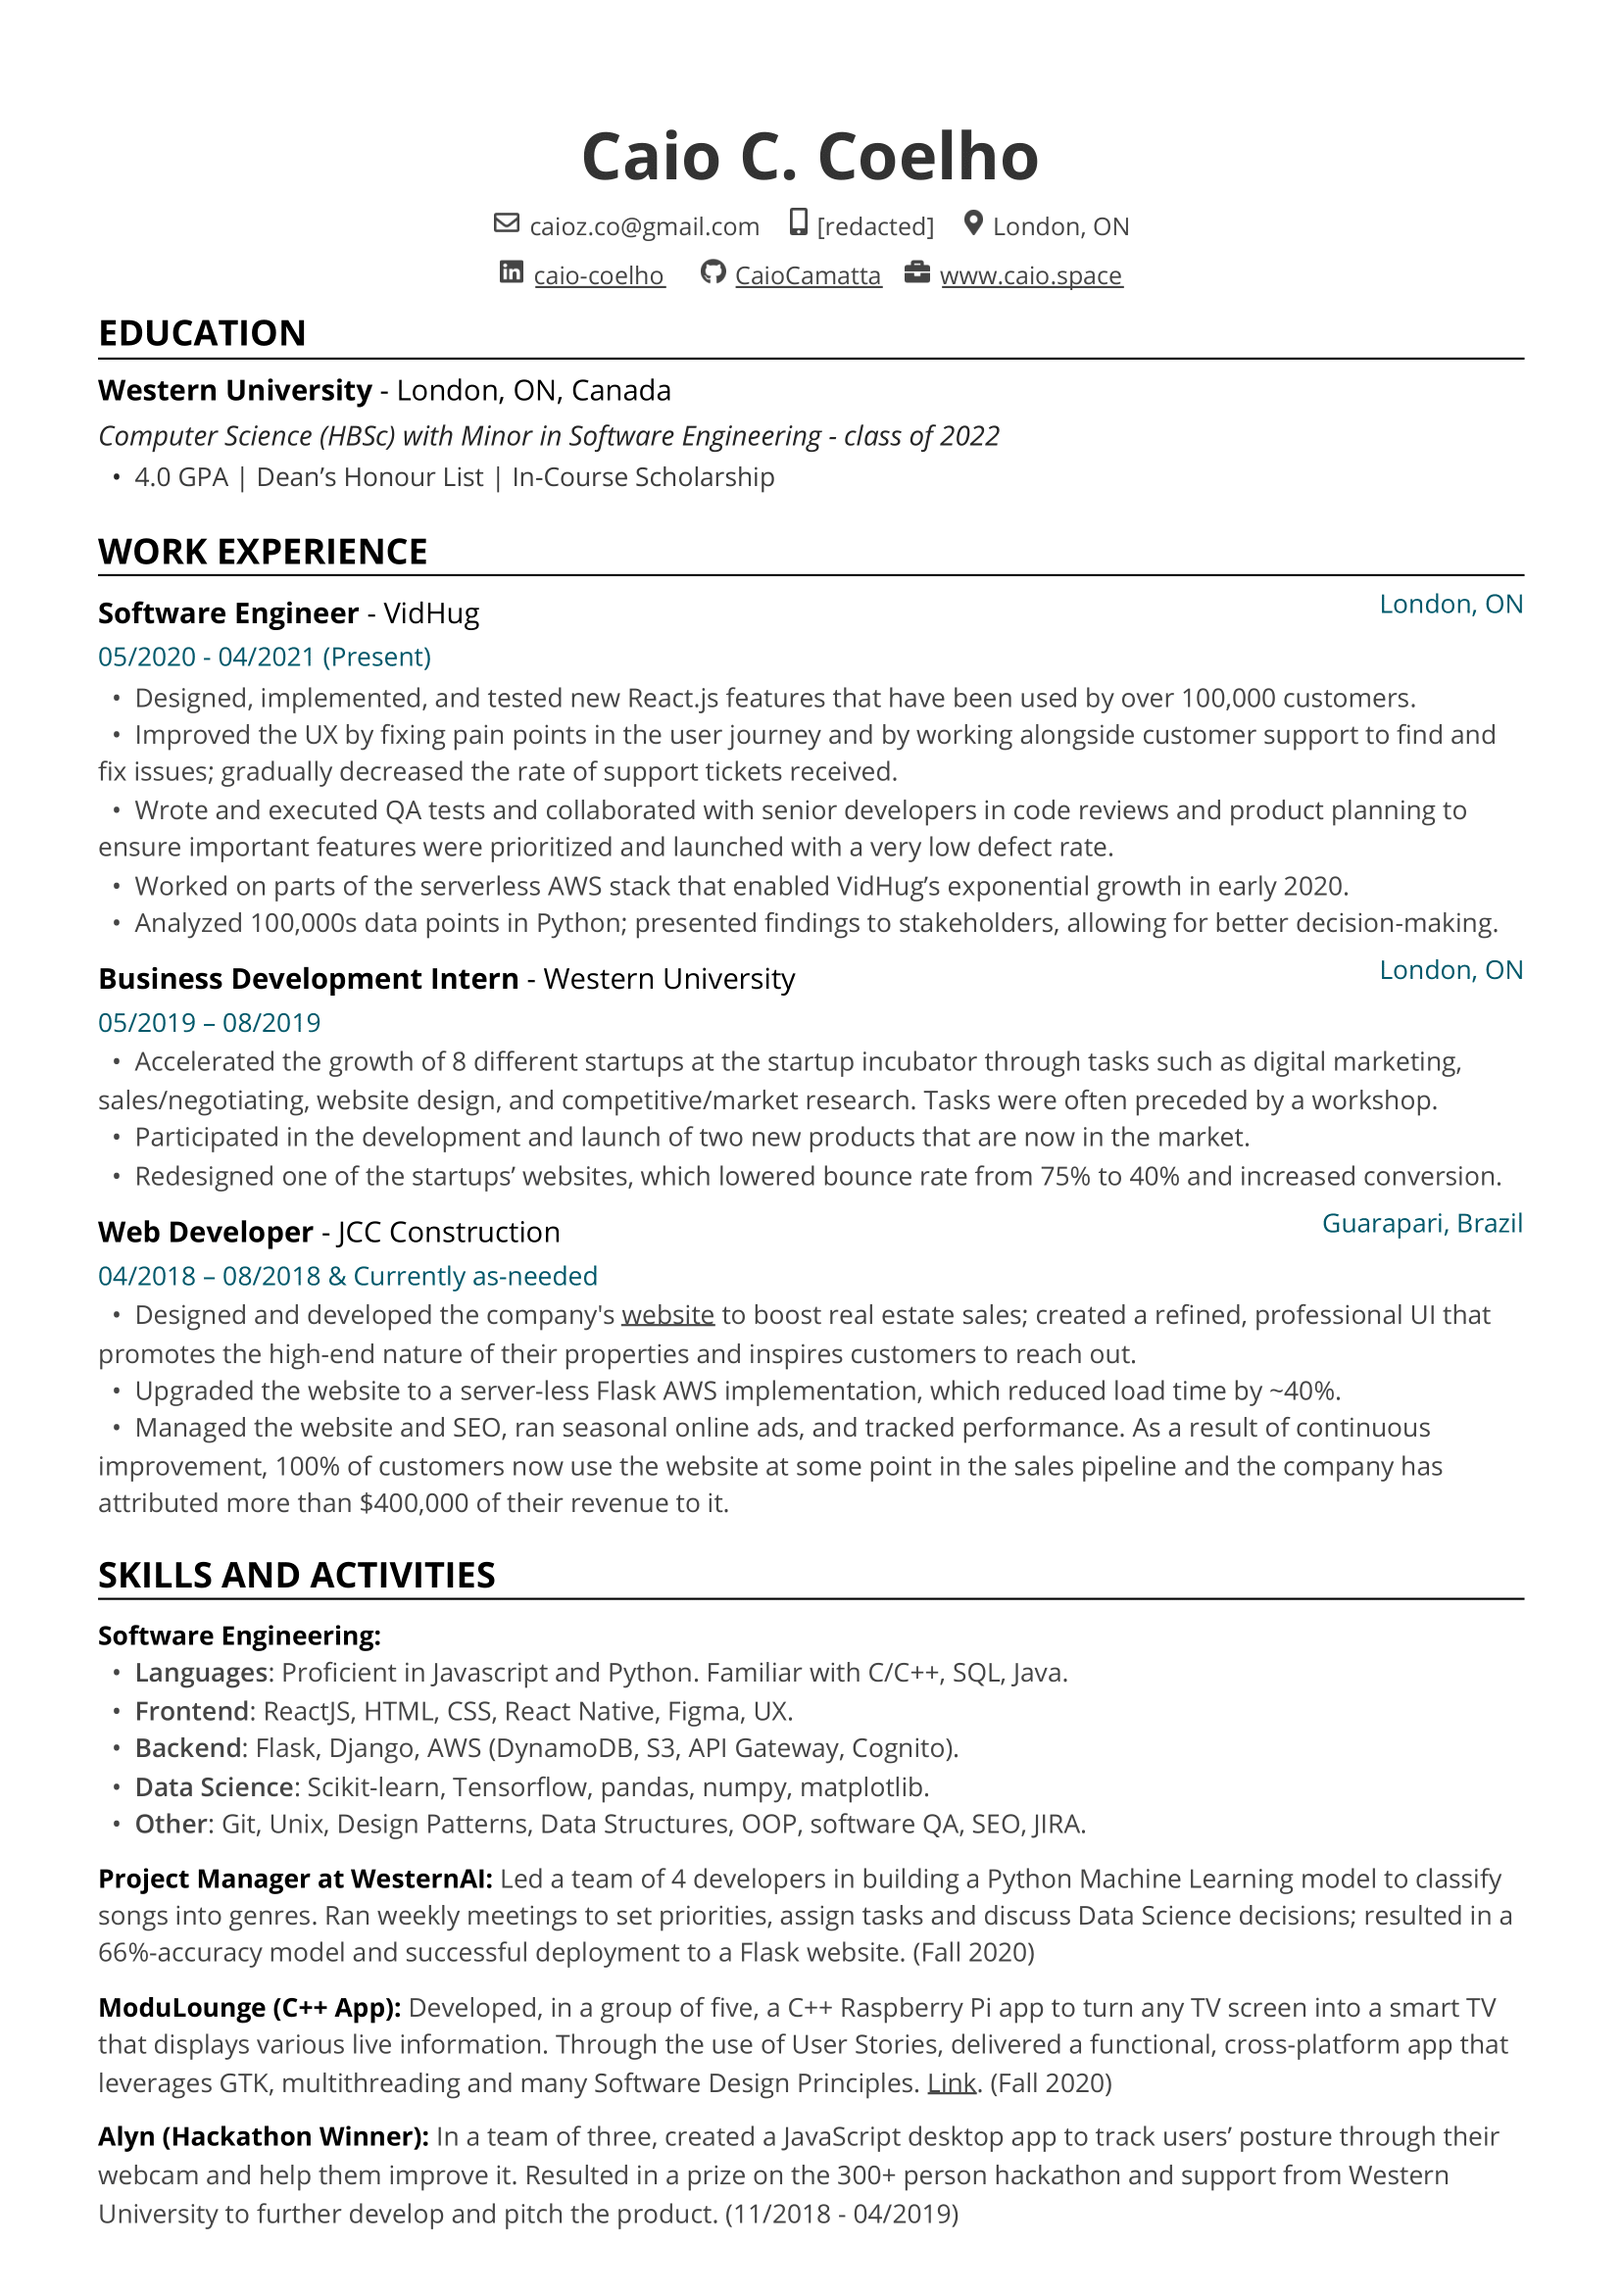
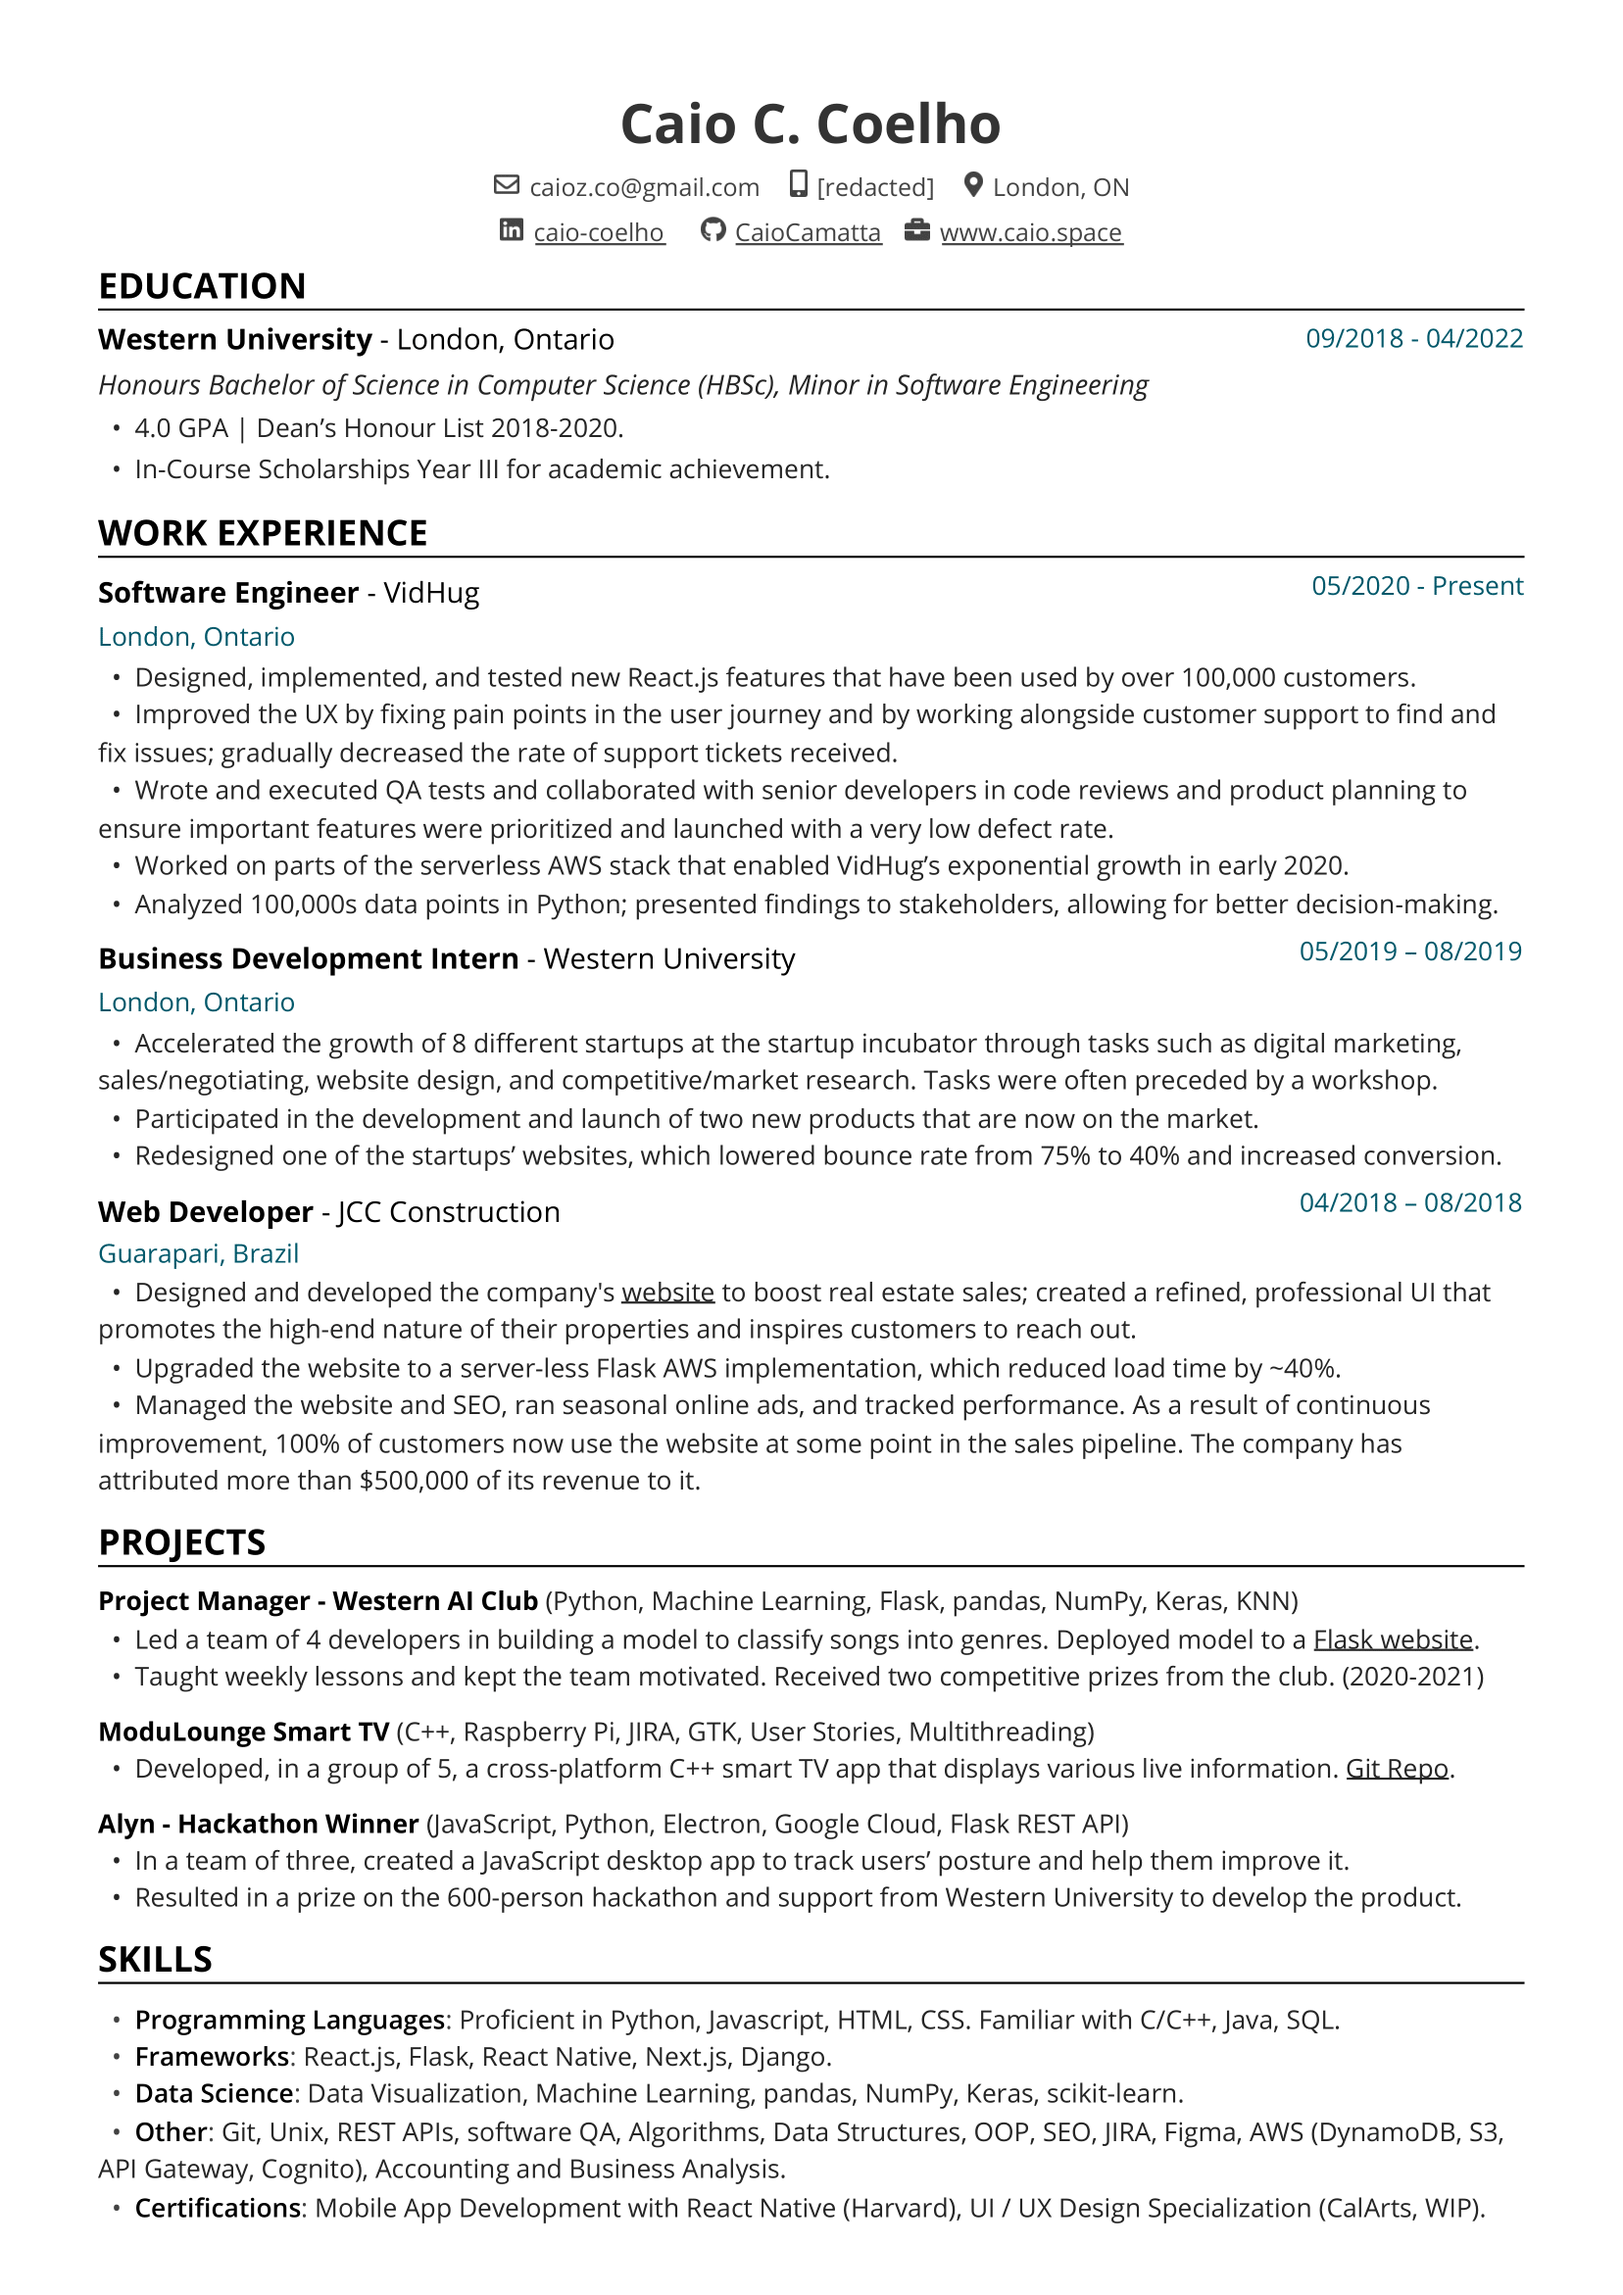
Update projects and resume

Changed region(s): [[0.0616, 0.0312, 0.9547, 0.9663], [0.5543, 0.1558, 0.7083, 0.187], [0.8007, 0.1247, 0.9239, 0.1558]]

diff --git a/website/pages/index.js b/website/pages/index.js
@@ -10,15 +10,27 @@ export default function Home() {
   return (
     <Layout description={description} titleSuffix={titleSuffix}>
       <h2 className="text-4xl font-bold mb-3">About Me</h2>
-      <h3 className="text-xl text-gray-700 font-medium mt-3 mb-1 pt-1">Projects</h3>
+      <h3 className="text-xl text-gray-700 font-medium mt-3 mb-1 pt-1">
+        Projects
+      </h3>
       <ul className="list-disc list-inside ml-3 mt-2 text-black-900">
+        <li className="mt-2">
+          <a href="https://litepm.com/" className="text-blue-600">
+            LitePM
+          </a>{" "}
+          (2021): an easy-to-use Project Management app to manage small group
+          projects (2-8 people). Created in Next.js / React, Node.js and hosted
+          on AWS EC2. I organized this sprint in a 7-day hackathon-like format
+          with three other developers.
+        </li>
         <li className="mt-2">
           <a href="https://liferpg.tech/" className="text-blue-600">
             LifeRPG
           </a>{" "}
-          (2021): a one week sprint to create an RPG app where you progress your
-          character by completing real-life tasks. Personal initiative -
-          executed in a team of four using Next.js, React, Flask and Firebase.
+          (2021): another one-week sprint to create an RPG app where you
+          progress your character by completing real-life tasks. Personal
+          initiative - executed in a team of four using Next.js, React, Flask
+          and Firebase.
         </li>
         <li className="mt-2">
           <a
